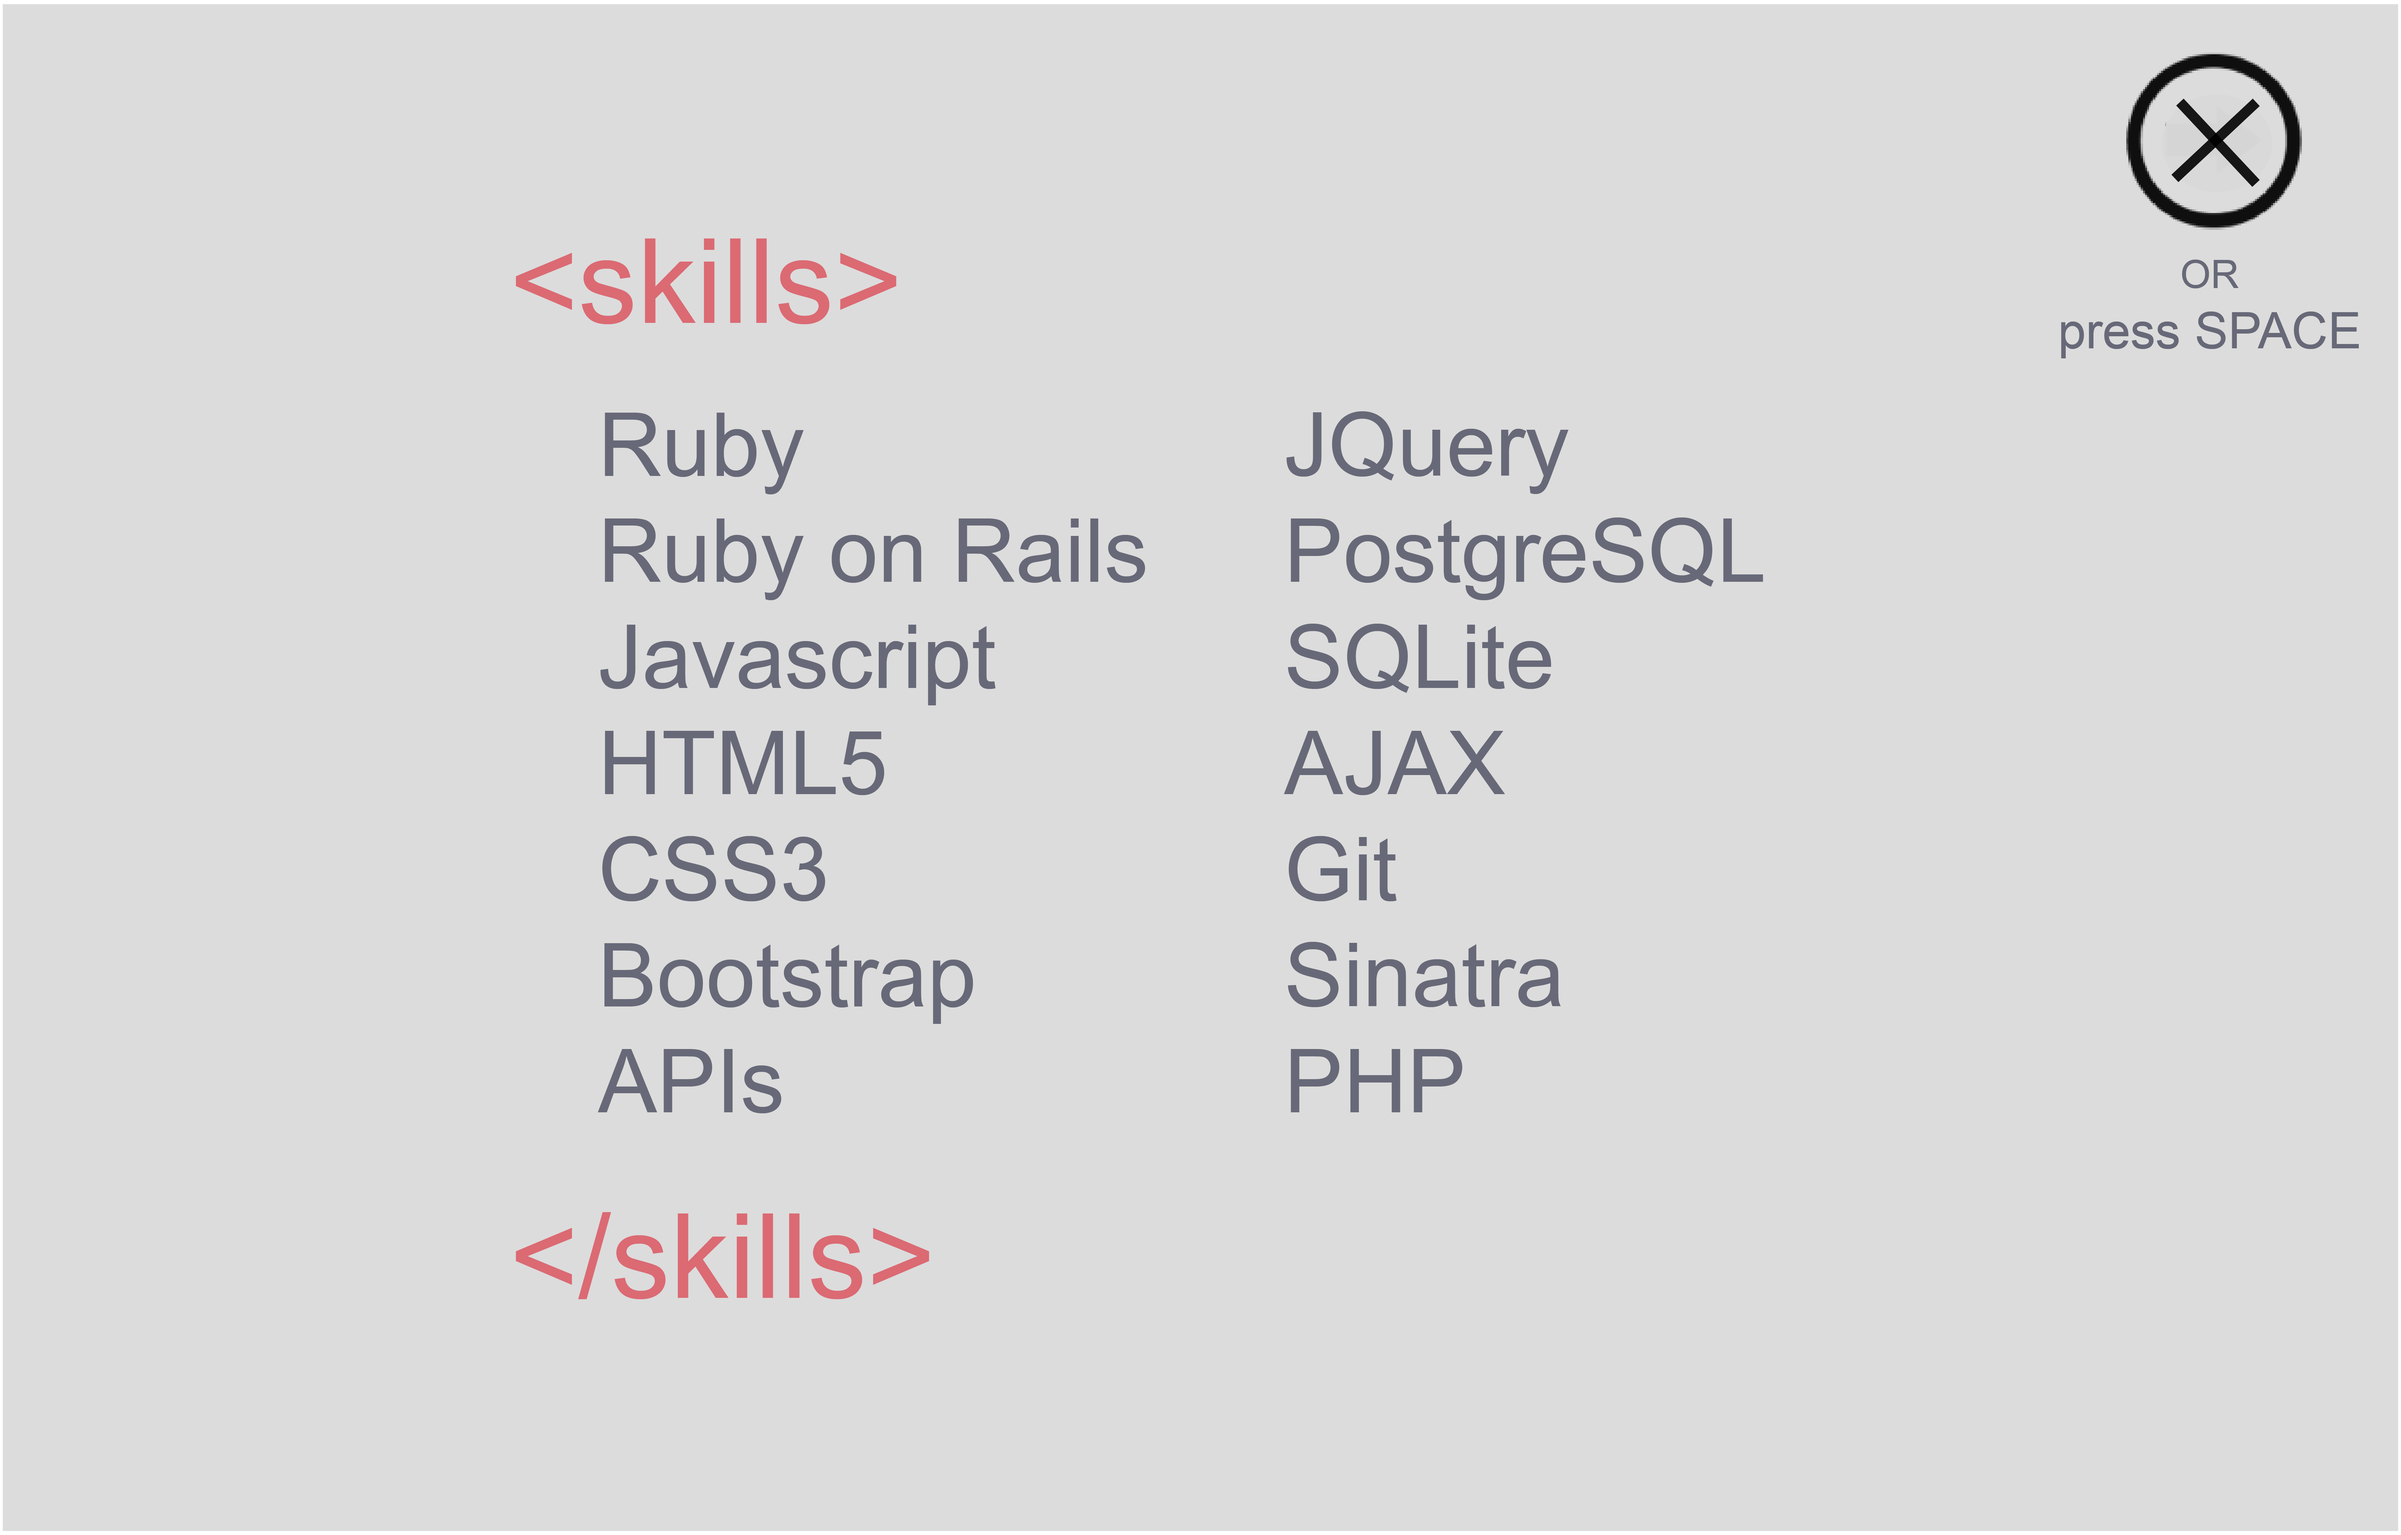
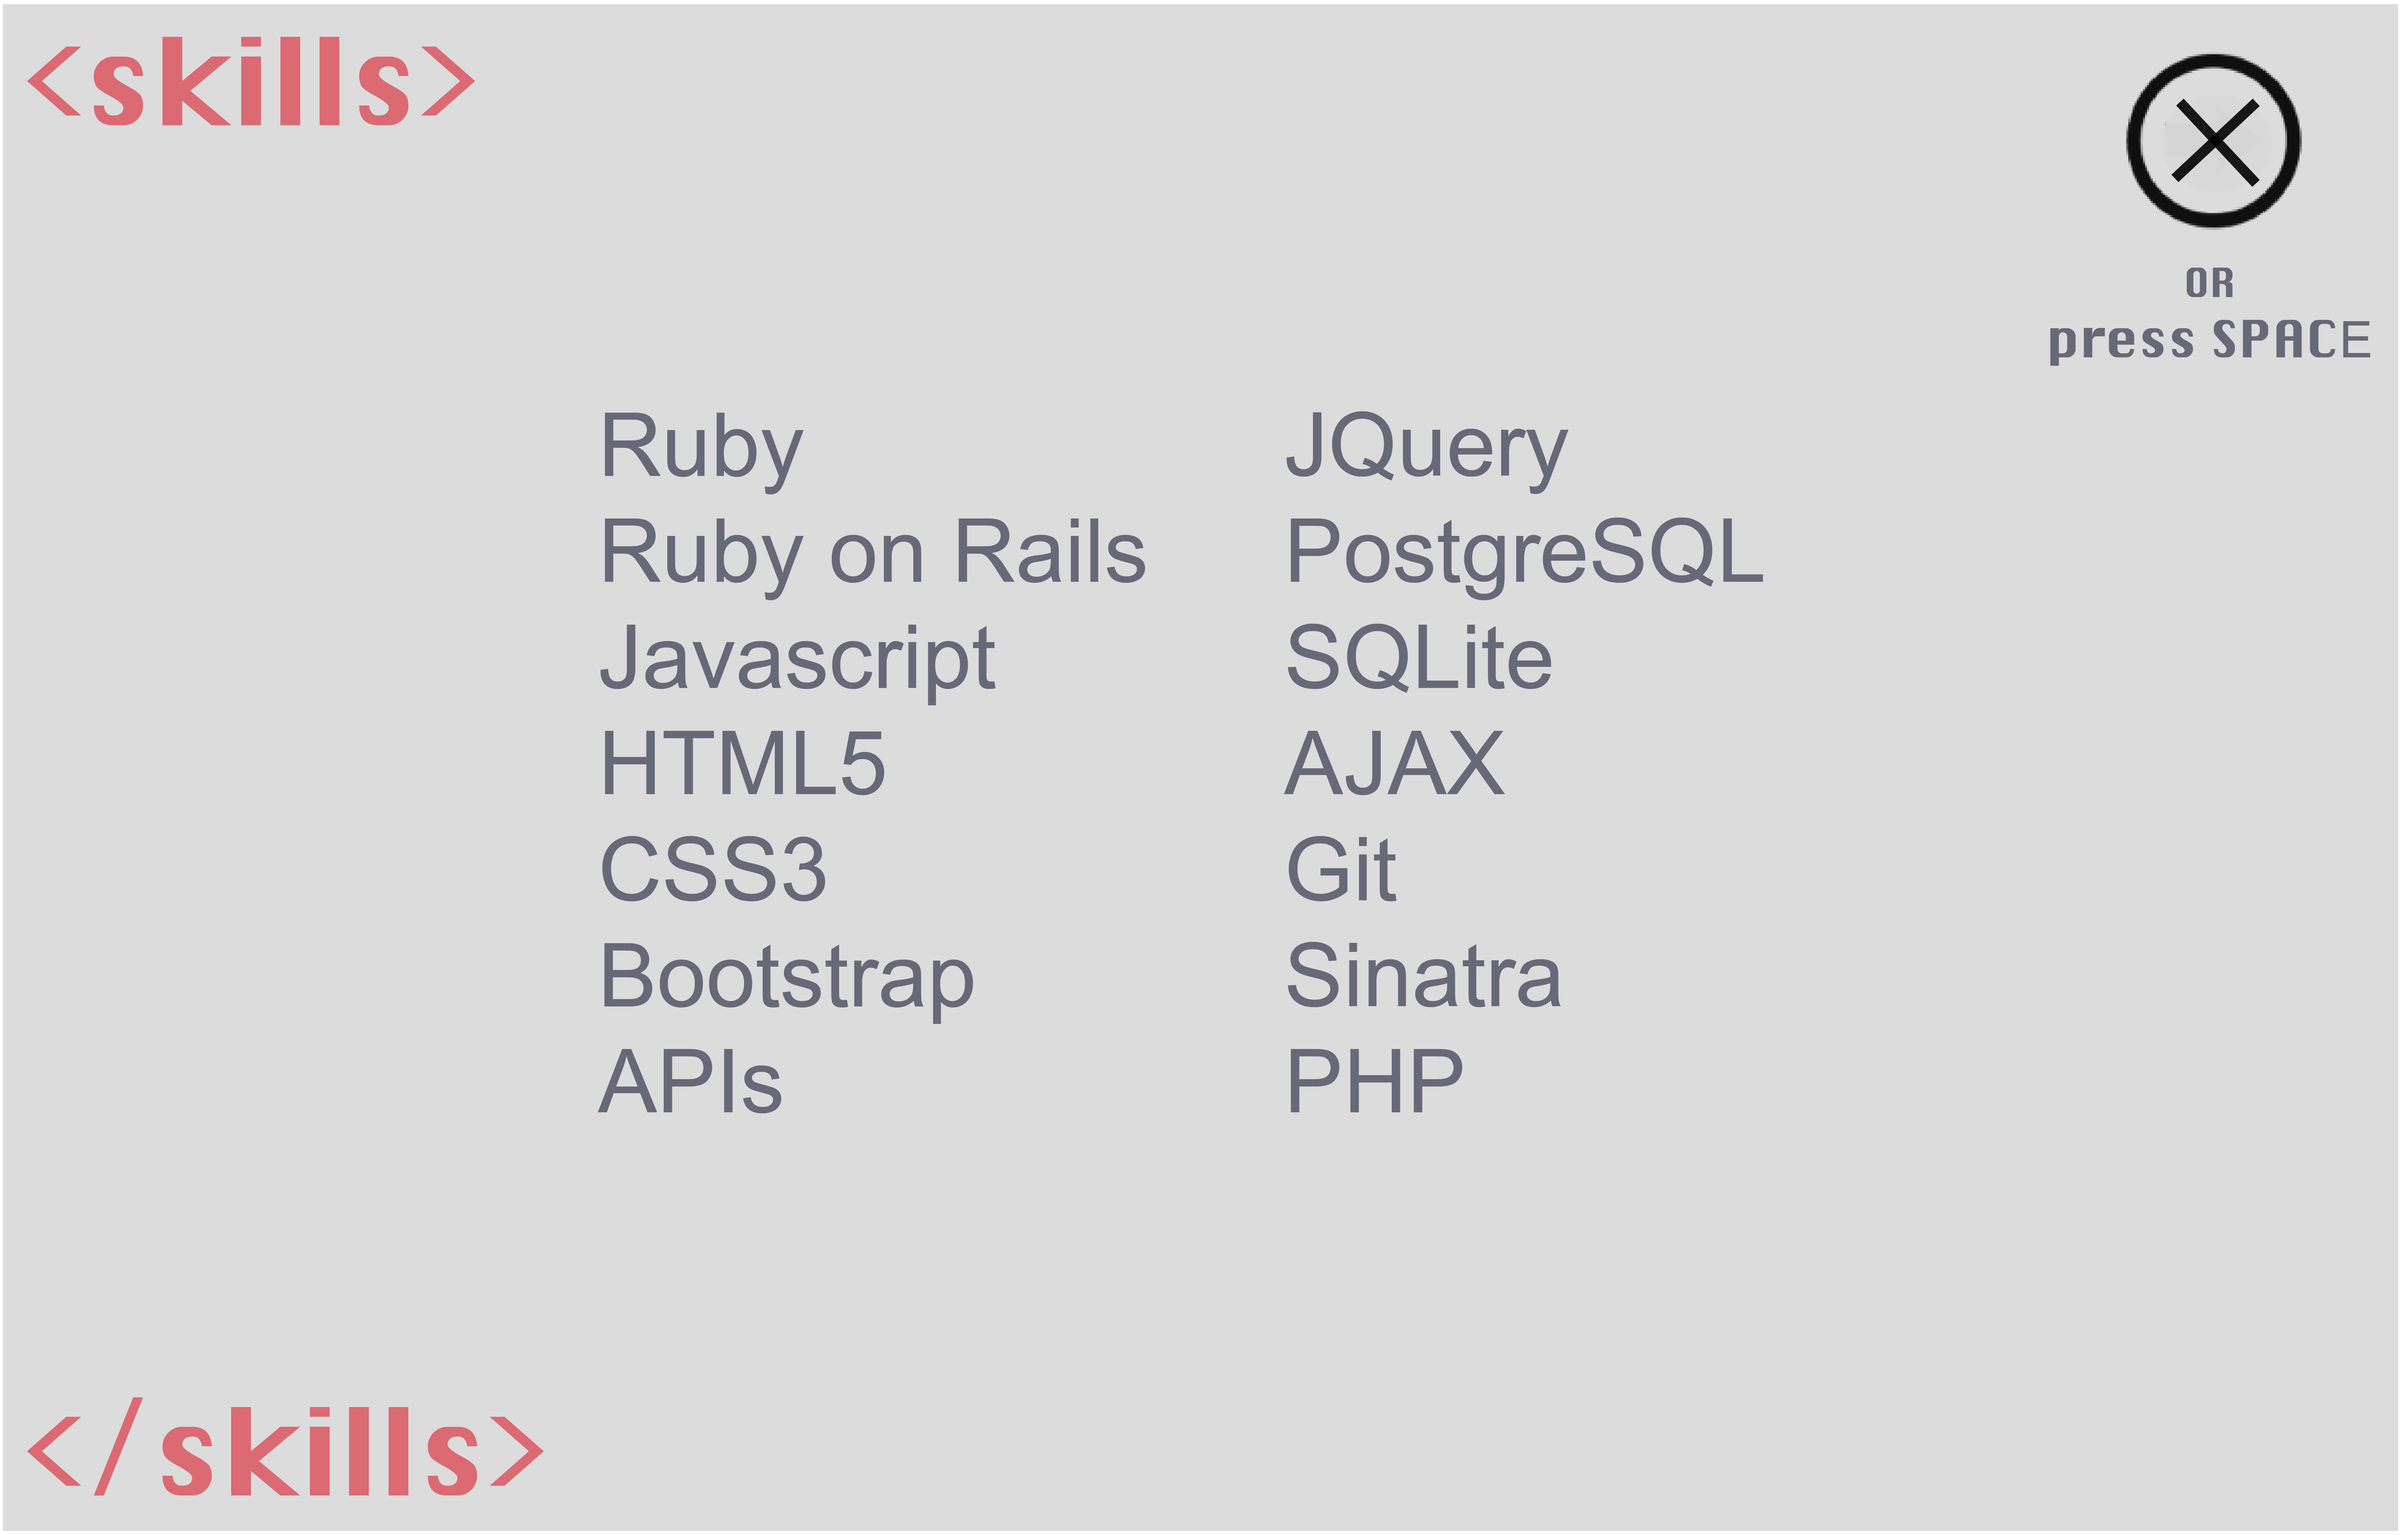
new font on modal, and made it so its easier to close modal

diff --git a/script.js b/script.js
@@ -419,8 +419,9 @@ function draw() {
     else if (skillsY < 287.13){
       // alert("SKILLS FISH CAUGHT, THIS WILL SOON BE A MODAL WINDOW WITH INFO");
       if (skHooked == true && skillsY < 287.13) {
+        speed = 0;
         drawSkillsModal();
-        if (spacePressed){
+        if (spacePressed || leftPressed || rightPressed || downPressed){
           upPressed = false;
           skillsX = -30;
           skillsY = 400;
@@ -434,6 +435,7 @@ function draw() {
           };
           spacePressed = false;
           skHooked = false;
+          speed = 4.5;
         };
       };
     };
